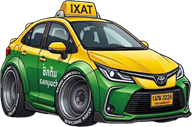
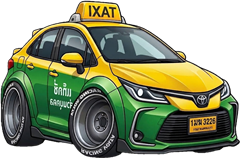
เปลี่ยนรูป taxi-car.png เป็นรถคันใหม่ (เหลือง-เขียว) + คืนสเกลใหญ่จอมิเตอร์ zoom + แก้สถิติให้สมดุล + เผื่อที่ว่างรถบนเส้น progress
🤖 Generated with Codebuff

diff --git a/index.html b/index.html
@@ -435,7 +435,7 @@
             background: #0b0c10;
             border: 1px solid rgba(255,255,255,0.08);
             border-radius: 30px;
-            padding: 20px 14px;
+            padding: 30px 15px;
             width: 98%;
             max-width: 500px;
             max-height: calc(100dvh - 24px); /* ไม่ให้สูงเกินหน้าจอ (หักลบ padding ของ overlay) */
@@ -448,51 +448,60 @@
         }
         .tracker-zoom-box::-webkit-scrollbar { display: none; }
 
-        .tz-header { display: flex; justify-content: space-between; align-items: center; margin-bottom: var(--space-zoom); padding: 0 6px; }
-        .tz-start-time { color: white; font-weight: 600; font-size: 17px; }
-        .tz-elapsed-time { color: var(--neon-yellow); font-weight: 600; font-size: 17px; }
-        .tz-progress-container { position: relative; margin: 10px 10px var(--space-zoom) 10px; }
+        .tz-header { display: flex; justify-content: space-between; align-items: center; margin-bottom: var(--space-zoom); padding: 0 10px; }
+        .tz-start-time { color: white; font-weight: 600; font-size: 18px; }
+        .tz-elapsed-time { color: var(--neon-yellow); font-weight: 600; font-size: 18px; }
+        .tz-progress-container { position: relative; margin: 34px 15px var(--space-zoom) 15px; /* margin-top 34px ให้มีที่ว่างรถ taxi ลอยเหนือเส้น ไม่ทับ header */ }
         .tz-progress-line { width: 100%; height: 6px; background: rgba(255,255,255,0.1); border-radius: 3px; position: relative; }
         .tz-progress-fill { position: absolute; left: 0; top: 0; height: 100%; background: linear-gradient(90deg, var(--neon-green), var(--neon-yellow)); border-radius: 3px; transition: width 1s ease-out; box-shadow: 0 0 10px var(--glow-yellow); }
         .tz-point-start { position: absolute; left: -8px; top: -8px; width: 16px; height: 16px; border-radius: 50%; border: 3px solid white; background: transparent; display: flex; justify-content: center; align-items: center; }
         .tz-point-start::before { content: ''; width: 8px; height: 8px; background: var(--neon-yellow); border-radius: 50%; position: absolute; top: -16px; left: -14px; box-shadow: 16px 16px 0 var(--neon-yellow); clip-path: polygon(50% 0%, 0% 100%, 100% 100%); transform: rotate(45deg); }
         .tz-point-end { position: absolute; right: -8px; top: -8px; width: 16px; height: 16px; border-radius: 50%; border: 3px solid var(--accent-red); background: transparent; }
         .tz-stats-row { display: flex; justify-content: space-between; align-items: stretch; margin-bottom: var(--space-zoom); gap: 10px; padding: 0 10px 0 6px; }
+        /* รถ taxi บนเส้น progress — ให้ลอยชัดเจน ไม่ถูกตัด/ทับ */
+        .tracker-zoom-box #tzCarIcon { top: -24px; z-index: 5; }
+        .tracker-zoom-box #tzCarIcon img { width: 52px; height: auto; }
         .tz-stat-col { 
             flex: 1; 
             display: flex; 
             flex-direction: column; 
             align-items: center; 
             justify-content: center; 
-            gap: 4px;
+            gap: 6px;
             min-width: 0; 
-            padding: 6px 8px 6px 8px;
+            padding: 6px 4px 6px 4px;
+            overflow: hidden;
         }
         .tz-stat-num { 
-            font-size: 40px; 
+            font-size: 55px; 
             font-weight: 700; 
-            line-height: 1.05; 
+            line-height: 1; 
             letter-spacing: -1px; 
             margin: 0; 
-            vertical-align: baseline;
+            height: 1em; /* สูงเท่ากันทุกคอลัมน์ → ตัวเลขอยู่ baseline/กลางเดียวกัน */
             display: flex;
-            align-items: baseline;
+            align-items: center;
+            justify-content: center;
+            white-space: nowrap;
         }
         .tz-stat-label { 
-            font-size: 13px; 
+            font-size: 17px; 
             color: var(--text-dim); 
             line-height: 1.2; 
             margin: 0; 
             text-align: center;
-            min-height: 1.5em;
+            min-height: 1.4em;
+            height: 1.4em; /* สูงเท่ากันทุกคอลัมน์ → label อยู่บรรทัดเดียวกัน */
+            white-space: nowrap;
             display: flex;
-            align-items: flex-start;
+            align-items: center;
+            justify-content: center;
         }
-        .tz-fare-card { position: relative; background: linear-gradient(135deg, #2ecc71, #27ae60); border-radius: 20px; padding: 20px 10px; text-align: center; box-shadow: 0 12px 28px rgba(46, 204, 113, 0.36); margin-bottom: var(--space-zoom); }
-        .tz-fare-title { color: rgba(255,255,255,0.95); font-size: 15px; font-weight: 500; margin-bottom: 2px; }
-        .tz-fare-price-box { display: flex; justify-content: center; align-items: baseline; gap: 6px; }
-        #tzMeterPrice { font-size: 96px; font-weight: 800; color: white; line-height: 0.88; letter-spacing: -3px; text-shadow: 0 4px 10px rgba(0,0,0,0.2); }
-        .tz-fare-currency { font-size: 40px; font-weight: 700; color: white; text-shadow: 0 4px 10px rgba(0,0,0,0.2); }
+        .tz-fare-card { position: relative; background: linear-gradient(135deg, #2ecc71, #27ae60); border-radius: 25px; padding: 35px 15px; text-align: center; box-shadow: 0 12px 28px rgba(46, 204, 113, 0.36); margin-bottom: var(--space-zoom); }
+        .tz-fare-title { color: rgba(255,255,255,0.95); font-size: 20px; font-weight: 500; margin-bottom: 5px; }
+        .tz-fare-price-box { display: flex; justify-content: center; align-items: baseline; gap: 10px; }
+        #tzMeterPrice { font-size: 140px; font-weight: 800; color: white; line-height: 0.88; letter-spacing: -3px; text-shadow: 0 4px 10px rgba(0,0,0,0.2); }
+        .tz-fare-currency { font-size: 60px; font-weight: 700; color: white; text-shadow: 0 4px 10px rgba(0,0,0,0.2); }
         .tz-toll-btn {
             position: absolute; top: 10px; left: 10px; z-index: 60;
             display: flex; align-items: center; justify-content: center; gap: 3px;
@@ -509,7 +518,7 @@
         .tz-toll-btn .material-symbols-outlined { font-size: 12px; }
         .tz-pause-btn {
             position: absolute; top: 8px; right: 8px; z-index: 60;
-            width: 34px; height: 34px; border-radius: 50%;
+            width: 38px; height: 38px; border-radius: 50%;
             display: none; align-items: center; justify-content: center;
             border: 1px solid rgba(255,255,255,0.35);
             color: #fff; cursor: pointer; -webkit-tap-highlight-color: transparent;
@@ -536,18 +545,18 @@
             font-size: 13px; font-weight: 600; color: rgba(255,255,255,0.92);
             text-shadow: 0 1px 3px rgba(0,0,0,0.25);
         }
-        .tz-info-box { background: rgba(255,255,255,0.03); border: 1px solid rgba(255,255,255,0.05); border-radius: 16px; padding: 14px 0; display: flex; justify-content: space-evenly; align-items: center; margin-bottom: var(--space-zoom); }
+        .tz-info-box { background: rgba(255,255,255,0.03); border: 1px solid rgba(255,255,255,0.05); border-radius: 20px; padding: 25px 0; display: flex; justify-content: space-evenly; align-items: center; margin-bottom: var(--space-zoom); }
         .tz-info-col { flex: 1; text-align: center; min-width: 0; }
-        .tz-info-divider { width: 1px; height: 36px; background: rgba(255,255,255,0.08); }
-        .tz-info-label { font-size: 13px; color: var(--text-dim); margin-bottom: 2px; }
-        .tz-info-val { font-size: 24px; font-weight: 700; }
+        .tz-info-divider { width: 1px; height: 50px; background: rgba(255,255,255,0.08); }
+        .tz-info-label { font-size: 18px; color: var(--text-dim); margin-bottom: 5px; }
+        .tz-info-val { font-size: 32px; font-weight: 700; }
 
         /* 🎛 Override ปุ่มเริ่ม/สิ้นสุดเดินทาง (manual-timer-btn) บนหน้า Zoom Meter ให้กระชับแต่ไม่ตัดข้อความ */
         .tracker-zoom-box .manual-timer-btn {
-            padding: 7px 12px !important;
-            border-radius: 16px !important;
-            font-size: 16px !important;
-            min-height: 58px;       /* เพียงพอสำหรับ 2 บรรทัดกลาง (สิ้นสุด + เวลา) */
+            padding: 9px 14px !important;
+            border-radius: 18px !important;
+            font-size: 18px !important;
+            min-height: 64px;       /* เพียงพอสำหรับ 2 บรรทัดกลาง (สิ้นสุด + เวลา) */
             height: auto;           /* ให้สูงขึ้นตาม content จริง (สำคัญ!) */
             max-height: none !important; /* ❌ เอา hard cap ออก — เดิม 54px ตัด content 2 บรรทัด */
             margin-bottom: 8px !important;
@@ -557,19 +566,19 @@
             align-items: center;
         }
         .tracker-zoom-box .manual-timer-btn .tx-type-chip {
-            padding: 3px 8px !important;
-            font-size: 12px !important;
+            padding: 5px 10px !important;
+            font-size: 13px !important;
             margin-right: 10px !important;
             border-radius: 10px !important;
         }
         .tracker-zoom-box .manual-timer-btn .manual-timer-total {
-            font-size: 13px !important;
+            font-size: 15px !important;
         }
         .tracker-zoom-box .manual-timer-btn .material-symbols-outlined {
-            font-size: 20px !important;
+            font-size: 22px !important;
         }
 
-        .tz-close-text { text-align: center; font-size: 15px; color: rgba(255,255,255,0.4); cursor: pointer; transition: 0.2s; padding: 6px; font-weight: 500; }
+        .tz-close-text { text-align: center; font-size: 18px; color: rgba(255,255,255,0.4); cursor: pointer; transition: 0.2s; padding: 10px; font-weight: 500; }
         .tz-close-text:active { color: white; transform: scale(0.95); }
 
         /* Custom Confirm Modal CSS */
@@ -614,7 +623,7 @@
             --space-section: calc(var(--space-unit) * 6); /* 12px — ระหว่างส่วนหลักหน้าแรก */
             --space-card: calc(var(--space-unit) * 7);    /* 14px — ระหว่างการ์ดหน้าสรุป */
             --space-field: calc(var(--space-unit) * 9);   /* 18px — ระหว่างช่องฟอร์ม/เมนู */
-            --space-zoom: calc(var(--space-unit) * 6);    /* 12px — ระหว่างบล็อกหน้าจอมิเตอร์ขยาย (zoom) */
+            --space-zoom: calc(var(--space-unit) * 10);   /* 20px — ระหว่างบล็อกหน้าจอมิเตอร์ขยาย (zoom) */
         }
 
         html { background: #070a11; }
@@ -1330,58 +1339,58 @@
 
         /* ---------- จอแคบจริง (<=400px) — ย่อขนาดให้ข้อมูลทุกอย่างแสดงครบ ไม่ตัด ---------------- */
         @media (max-width: 420px) {
-            .tracker-zoom-box { padding: 12px 8px; border-radius: 22px; }
-            .tz-header { padding: 0 2px; margin-bottom: 8px; }
-            .tz-start-time, .tz-elapsed-time { font-size: 13px; }
-            .tz-progress-container { margin: 4px 4px 8px 4px; }
-            .tz-stats-row { margin-bottom: 8px; gap: 4px; }
-            .tz-stat-num { font-size: 32px; }
-            #tzTrafficTime.tz-stat-num { font-size: 28px; }
-            .tz-stat-label { font-size: 11px; }
-            .tz-fare-card { padding: 16px 6px; border-radius: 16px; margin-bottom: 8px; }
-            .tz-fare-title { font-size: 13px; }
-            #tzMeterPrice { font-size: 74px; }
-            .tz-fare-currency { font-size: 30px; }
-            .tz-info-box { padding: 12px 0; border-radius: 12px; margin-bottom: 8px; }
-            .tz-info-val { font-size: 20px; }
-            .tz-info-label { font-size: 11px; }
-            .tz-info-divider { height: 34px; }
-            .tz-close-text { font-size: 13px; padding: 4px; }
+            .tracker-zoom-box { padding: 16px 10px; border-radius: 24px; }
+            .tz-header { padding: 0 4px; margin-bottom: 10px; }
+            .tz-start-time, .tz-elapsed-time { font-size: 16px; }
+            .tz-progress-container { margin: 30px 6px 10px 6px; /* เหลือที่ว่างรถ taxi บนจอเล็กด้วย */ }
+            .tz-stats-row { margin-bottom: 10px; gap: 6px; }
+            .tz-stat-num { font-size: 44px; height: 1em; }
+            #tzTrafficTime.tz-stat-num { font-size: 38px; height: 44px; /* สูงเท่ากับเพื่อนร่วมแถว → ตัวเลข/label อยู่บรรทัดเดียวกัน */ }
+            .tz-stat-label { font-size: 15px; height: 1.4em; }
+            .tz-fare-card { padding: 22px 10px; border-radius: 18px; margin-bottom: 10px; }
+            .tz-fare-title { font-size: 17px; }
+            #tzMeterPrice { font-size: 100px; }
+            .tz-fare-currency { font-size: 42px; }
+            .tz-info-box { padding: 16px 0; border-radius: 14px; margin-bottom: 10px; }
+            .tz-info-val { font-size: 28px; }
+            .tz-info-label { font-size: 15px; }
+            .tz-info-divider { height: 46px; }
+            .tz-close-text { font-size: 16px; padding: 6px; }
             .tracker-zoom-box .manual-timer-btn {
-                padding: 6px 8px !important;
-                min-height: 52px;
+                padding: 8px 10px !important;
+                min-height: 58px;
                 height: auto;
                 max-height: none !important;
-                font-size: 15px !important;
+                font-size: 17px !important;
             }
             .tracker-zoom-box .manual-timer-btn .tx-type-chip {
-                padding: 3px 6px !important; font-size: 11px !important; margin-right: 8px !important;
+                padding: 4px 8px !important; font-size: 13px !important; margin-right: 8px !important;
             }
-            .tracker-zoom-box .manual-timer-btn .manual-timer-total { font-size: 12px !important; }
-            .tracker-zoom-box .manual-timer-btn .material-symbols-outlined { font-size: 18px !important; }
+            .tracker-zoom-box .manual-timer-btn .manual-timer-total { font-size: 14px !important; }
+            .tracker-zoom-box .manual-timer-btn .material-symbols-outlined { font-size: 20px !important; }
         }
 
         /* ---------- จอสูงน้อย (<=700px) — ลดขนาดอีกนิด เพื่อไม่ต้องเลื่อนเยอะ ---------- */
         @media (max-height: 700px) {
-            .tracker-zoom-box { padding: 12px 9px; border-radius: 22px; }
-            .tz-header { margin-bottom: 8px; }
-            .tz-progress-container { margin: 5px 6px 8px 6px; }
-            .tz-stats-row { margin-bottom: 8px; gap: 4px; }
-            .tz-stat-num { font-size: 34px; }
-            #tzTrafficTime.tz-stat-num { font-size: 28px; }
-            .tz-fare-card { padding: 16px 8px; border-radius: 16px; margin-bottom: 8px; }
-            #tzMeterPrice { font-size: 78px; }
-            .tz-fare-currency { font-size: 32px; }
-            .tz-info-box { padding: 12px 0; margin-bottom: 8px; }
-            .tz-info-val { font-size: 20px; }
-            .tz-pause-btn { top: 8px; right: 8px; width: 32px; height: 32px; box-shadow: none !important; }
-            .tz-pause-btn .material-symbols-outlined { font-size: 17px; }
+            .tracker-zoom-box { padding: 16px 12px; border-radius: 24px; }
+            .tz-header { margin-bottom: 10px; }
+            .tz-progress-container { margin: 30px 8px 10px 8px; /* เหลือที่ว่างรถ taxi บนจอเตี้ยด้วย */ }
+            .tz-stats-row { margin-bottom: 10px; gap: 6px; }
+            .tz-stat-num { font-size: 46px; height: 1em; }
+            #tzTrafficTime.tz-stat-num { font-size: 38px; height: 46px; /* สูงเท่ากับเพื่อนร่วมแถว → ตัวเลข/label อยู่บรรทัดเดียวกัน */ }
+            .tz-fare-card { padding: 22px 12px; border-radius: 18px; margin-bottom: 10px; }
+            #tzMeterPrice { font-size: 106px; }
+            .tz-fare-currency { font-size: 44px; }
+            .tz-info-box { padding: 16px 0; margin-bottom: 10px; }
+            .tz-info-val { font-size: 28px; }
+            .tz-pause-btn { top: 8px; right: 8px; width: 36px; height: 36px; box-shadow: none !important; }
+            .tz-pause-btn .material-symbols-outlined { font-size: 19px; }
             .tracker-zoom-box .manual-timer-btn {
-                padding: 6px 10px !important;
-                min-height: 52px;
+                padding: 8px 12px !important;
+                min-height: 58px;
                 height: auto;
                 max-height: none !important;
-                font-size: 15px !important;
+                font-size: 17px !important;
             }
         }
 
@@ -1439,12 +1448,12 @@
             #fareTollBtn .material-symbols-outlined { font-size: 14px; }
             #fareTollArea { top: 32px; left: 6px; width: calc(100% - 12px); max-width: calc(100% - 12px); }
             #totalTollBadge { bottom: 4px; padding: 4px 14px; font-size: 12px; border-radius: 14px; }
-            .tz-toll-btn { top: 8px; left: 8px; padding: 3px 8px; font-size: 10.5px; border-radius: 12px; }
-            .tz-toll-btn .material-symbols-outlined { font-size: 11.5px; }
-            .tz-pause-btn { top: 6px; right: 6px; width: 30px; height: 30px; box-shadow: none !important; }
-            .tz-pause-btn .material-symbols-outlined { font-size: 16px; }
-            .tz-toll-list { top: 32px; left: 8px; }
-            .tz-est-fare { font-size: 11.5px; right: 10px; bottom: 8px; }
+            .tz-toll-btn { top: 10px; left: 10px; padding: 4px 10px; font-size: 12px; border-radius: 13px; }
+            .tz-toll-btn .material-symbols-outlined { font-size: 13px; }
+            .tz-pause-btn { top: 8px; right: 8px; width: 34px; height: 34px; box-shadow: none !important; }
+            .tz-pause-btn .material-symbols-outlined { font-size: 18px; }
+            .tz-toll-list { top: 36px; left: 10px; }
+            .tz-est-fare { font-size: 13px; right: 12px; bottom: 10px; }
             #fareResetBtn { top: 4px; right: 6px; width: 22px; height: 22px; }
             #fareResetBtn .material-symbols-outlined { font-size: 14px; }
             #farePauseBtn { top: 4px; right: 6px; width: 22px; height: 22px; }
@@ -2176,9 +2185,9 @@
         html.oled .hamburger-btn, html.oled .small-toll-btn { box-shadow: none !important; }
         html.oled * { text-shadow: none !important; }
         @media (max-width: 430px) {
-            .tz-change-btn { top: 8px; left: 112px; padding: 3px 8px; font-size: 10.5px; border-radius: 12px; }
-            .tz-change-btn .material-symbols-outlined { font-size: 11.5px; }
-            .tz-oled-btn { bottom: 8px; left: 10px; width: 30px; height: 30px; }
+            .tz-change-btn { top: 10px; left: 122px; padding: 4px 10px; font-size: 12px; border-radius: 13px; }
+            .tz-change-btn .material-symbols-outlined { font-size: 13px; }
+            .tz-oled-btn { bottom: 10px; left: 12px; width: 34px; height: 34px; }
         }
 </style>
 <div id="settingsHubModal" class="modal-overlay" style="z-index: 10003;"><div class="modal-box flex-col-box" onclick="event.stopPropagation()"><div class="modal-header"><h3 style="color: var(--neon-yellow);">ตั้งค่าการใช้งาน</h3><button class="btn-close-floating" onclick="window.toggleModal('settingsHubModal', false)"><span class="material-symbols-outlined">close</span></button></div><div class="modal-content-scroll" style="text-align:left; padding:6px 12px;">
@@ -2250,7 +2259,7 @@
         <div class="tz-progress-container" id="tzProgressContainer">
             <div class="tz-progress-line">
                 <div class="tz-point-start"></div><div id="tzProgressFill" class="tz-progress-fill"></div>
-                <div id="tzCarIcon" class="car-icon" style="top: -20px;"><img src="taxi-car.png" alt="" style="width: 48px; height: auto; filter: drop-shadow(0 2px 5px rgba(0,0,0,0.8));" draggable="false"></div>
+                <div id="tzCarIcon" class="car-icon" style="top: -26px;"><img src="taxi-car.png" alt="🚕" onerror="this.outerHTML='<span style=&quot;font-size:34px; line-height:1;&quot;>🚕</span>'" style="width: 52px; height: auto; filter: drop-shadow(0 2px 5px rgba(0,0,0,0.8));" draggable="false"></div>
                 <div class="tz-point-end"></div>
             </div>
         </div>
